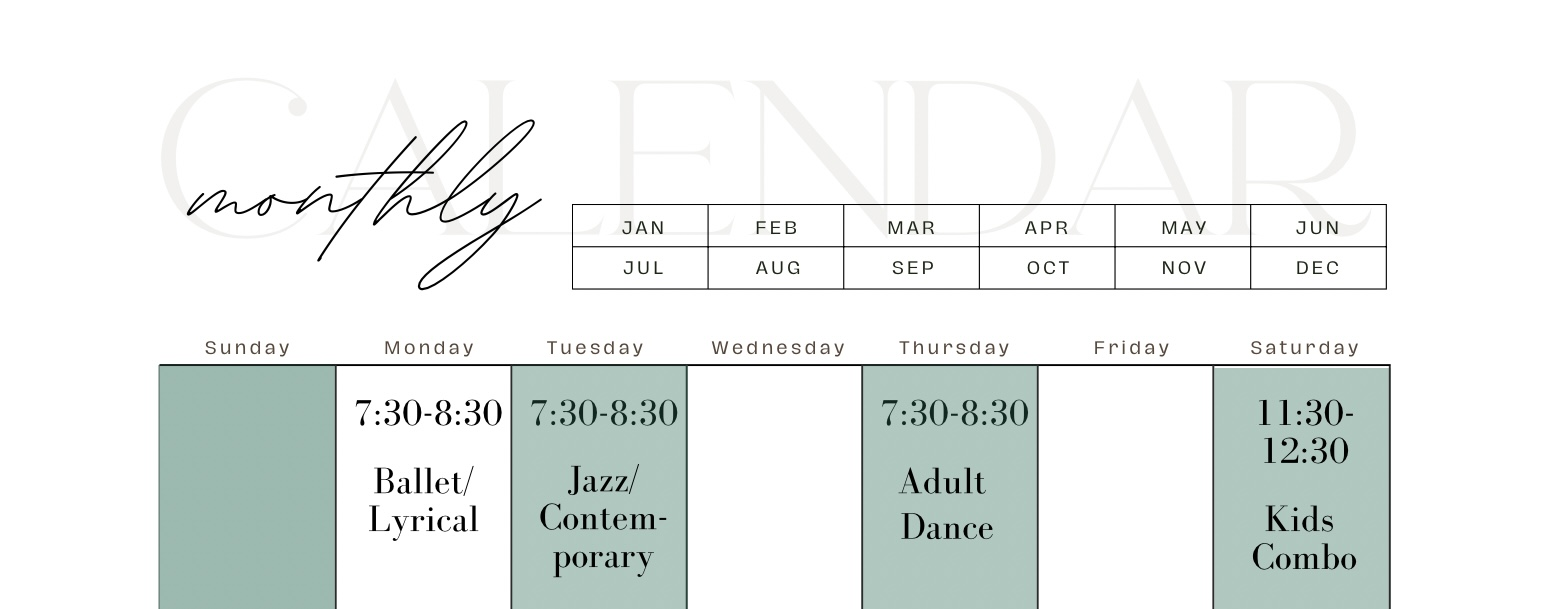
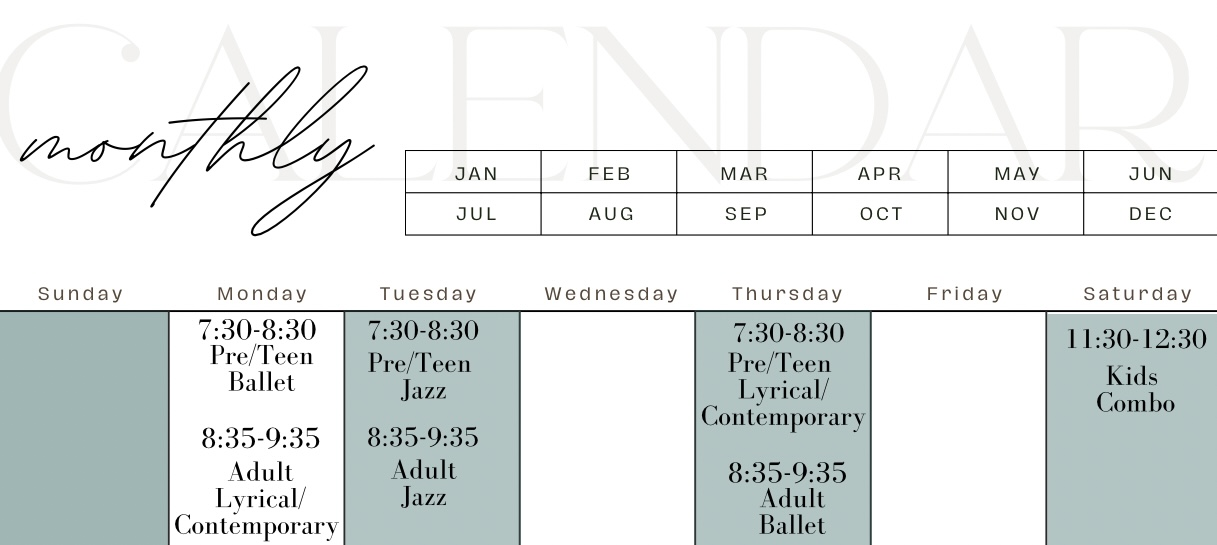
Change home page to reflect only 3 year olds or older allowed in classes. Change adult image and description to Lyrical/Contemporary. Update contact form to show preferred contact method & have more inviting messages. Update wording & description of classes. Update images. Update class calendar.

diff --git a/src/pages/classes.jsx b/src/pages/classes.jsx
@@ -4,6 +4,7 @@ import BalletHomeImg from '../images/home/balletHomeImg.JPEG';
 import JazzHomeImg from '../images/home/jazzHomeImg.JPEG';
 import KidsHomeImg from '../images/home/kidsHomeImg.JPEG';
 import AdultsHomeImg from '../images/home/adultsHomeImg.jpg';
+import LyricalHomeImg from '../images/home/lyricalHomeImg.png'
 import ClassCard from '../components/ClassCard';
 import {Link} from 'react-router-dom';
 
@@ -19,23 +20,24 @@ function Classes() {
       </p>
       <ClassCard 
         image={BalletHomeImg}
-        heading='Ballet/Lyrical'
+        heading='Ballet'
         age='7+'
         price='$65 per month'
-        time='Monday 7:30 - 8:30pm'
-        content="Ballet is a core foundation for other dance styles. Here at 
-                Treasured Dance Studio we will use several ballet terms and guidelines 
-                to help our students gain the knowledge they need to succeed in dance. 
-                The flow of the class is such: Start at the barre, add in strenghtening, 
-                center work, and finally a dance implementing what was learned in class 
-                that day."
+        firstTime='Pre/Teens - Mon 7:30 - 8:30pm'
+        secondTime='Adults - Thurs 8:35 - 9:35pm'
+        content="Ballet is the core foundation for other dance styles. Here at Treasured
+                Dance Studio we will use several ballet terms and guidelines to help our
+                students gain the knowledge they need to succeed in dance. The flow of the 
+                class is such: Start at the barre, add in strengthening and center work, 
+                small jumps and little jumps."
       />
       <ClassCard 
         image={JazzHomeImg}
-        heading='Jazz/Contemporary'
+        heading='Jazz'
         age='7+'
         price='$65 per month'
-        time='Tuesday 7:30 - 8:30pm'
+        firstTime='Pre/Teens - Tues 7:30 - 8:30pm'
+        secondTime='Adults - Tues 8:35 - 9:35pm'
         content="Jazz is all about energy, variety, and strength. We
                 pair contemporary with jazz so dancers can learn 
                 necessary variety through floor work, standing, isolation,
@@ -47,25 +49,27 @@ function Classes() {
       <ClassCard 
         image={KidsHomeImg}
         heading='Kids Combo'
-        age='2-6'
-        price='$45 or 55 per month (2-3 or 4-6)'
-        time='Saturday 11:30am - 12:30pm'
+        age='3-6'
+        price='$45 or 55 per month (3 or 4-6)'
+        firstTime='Saturday 11:30am - 12:30pm'
         content="Kids combo! These classes are so fun for kids ranging in ages 
-                from 2-6. The combo class includes a mixture of ballet and 
+                from 3-6. The combo class includes a mixture of ballet and 
                 acrobatic arts. In these classes students will learn body movement, 
                 pathways, rhythm, and more in a safe and fun learning environment."
       />
       <ClassCard
-        image={AdultsHomeImg}
-        heading='Adult Dance'
-        age='18+'
+        image={LyricalHomeImg}
+        heading='Lyrical/Contemporary'
+        age='7+'
         price='$65 per month'
-        time='Thursday 7:30 - 8:30pm'
-        content="Adult dance is for those 18+ who want to keep dancing to their hearts
-                content. We will study genres like ballet, jazz, contemporary, and lyrical. 
-                It is our philosophy that dance is for all ages. Each class will start
-                with a body warm up and exercise, move into an across the floor section,
-                and finish with a dance."
+        firstTime='Pre/Teens - Thurs 7:30 - 8:30pm'
+        secondTime='Adults - Mon 8:35 - 9:35pm'
+        content="This is an expressive dance class where we take the smoothness of ballet
+                mixed with the sharpness of jazz. This class will dive into emotions and 
+                creating with our body. Due to the class taking a mixture of both ballet 
+                and jazz, we recommend students in this class also be in either ballet or jazz.
+                 The structure of this class is such: full-body warm up, strengthening, 
+                 improv, center and floor work, and a dance."
       />
       <div className='class-bottom-div'>
         <h2>Ready to get started?</h2>

diff --git a/src/pages/home.jsx b/src/pages/home.jsx
@@ -10,6 +10,7 @@ import JazzHomeImg from '../images/home/jazzHomeImg.JPEG';
 import KidsHomeImg from '../images/home/kidsHomeImg.JPEG';
 import AdultsHomeImg from '../images/home/adultsHomeImg.jpg';
 import LocationImg from '../images/home/locationMap.png';
+import LyricalHomeImg from '../images/home/lyricalHomeImg.png';
 /* AVIF Images */
 import StudioFullShot256wAVIF from '../images/home/studioFullShot_256w_AVIF.avif';
 import StudioFullShot840wAVIF from '../images/home/studioFullShot_840w_AVIF.avif';
@@ -23,6 +24,7 @@ import BalletHomeImgAVIF from '../images/home/balletHomeImg.avif';
 import JazzHomeImgAVIF from '../images/home/jazzHomeImg.avif';
 import KidsHomeImgAVIF from '../images/home/kidsHomeImg.avif';
 import AdultsHomeImgAVIF from '../images/home/adultsHomeImg.avif';
+//import LyricalHomeImgAVIF from '../images/home/lyricalHomeImg.avif;'
 import LocationImg256wAVIF from '../images/home/locationMap_256w.avif';
 import LocationImg890wAVIF from '../images/home/locationMap_890w.avif';
 import LocationImg1235wAVIF from '../images/home/locationMap_1235w.avif';
@@ -50,6 +52,7 @@ import BalletHomeImgWEBP from '../images/home/balletHomeImg.webp';
 import JazzHomeImgWEBP from '../images/home/jazzHomeImg.webp';
 import KidsHomeImgWEBP from '../images/home/kidsHomeImg.webp';
 import AdultsHomeImgWEBP from '../images/home/adultsHomeImg.webp';
+import LyricalHomeImgWEBP from '../images/home/lyricalHomeImg.webp';
 
 function Home() {
   return (
@@ -57,7 +60,7 @@ function Home() {
       <h1 className='home-welcome-text'>Welcome to Treasured Dance Studio!</h1>
       <p className='home-welcome-content'>
         A premier dance studio located in Meridian, Idaho offering dance classes for 
-        adults and kids ages 2+.
+        adults and kids ages 3+.
       </p>
       <div className='home-studio-img-div'>
         <ResponsiveImage
@@ -100,7 +103,7 @@ function Home() {
       <div className='home-class-container'>
         <div className='home-class-subcontainer'>
           <HomeClassCard 
-            name='Ballet/Lyrical'
+            name='Ballet'
             image={BalletHomeImg}
             alt='Group of ballet dancers posing in black leotards'
             avifSrcSet={`${BalletHomeImgAVIF} 540w`}
@@ -108,7 +111,7 @@ function Home() {
             sizes="540px"
           />
           <HomeClassCard 
-            name='Jazz/Contemporary'
+            name='Jazz'
             image={JazzHomeImg}
             alt='Group of 4 pairs of feet posing in contemporary way'
             avifSrcSet={`${JazzHomeImgAVIF} 540w`}
@@ -126,11 +129,11 @@ function Home() {
             sizes="540px"
           />
           <HomeClassCard
-            name='Adult Dance'
-            image={AdultsHomeImg}
-            alt='Adult dance class'
-            avifSrcSet={`${AdultsHomeImgAVIF} 540w`}
-            webpSrcSet={`${AdultsHomeImgWEBP} 540w`}
+            name='Lyrical/Contemporary'
+            image={LyricalHomeImg}
+            alt='Lyrical/Contemporary class'
+            //avifSrcSet={`${AdultsHomeImgAVIF} 540w`}
+            webpSrcSet={`${LyricalHomeImgWEBP} 540w`}
             sizes="540px"
           />
         </div>

diff --git a/src/pages/get-started.jsx b/src/pages/get-started.jsx
@@ -5,16 +5,17 @@ import '../styles.css';
 function GetStarted() {
   return (
     <div className='get-started-outer'>
-      <h1>Get Started</h1>
+      {/* <h1>Get Started</h1> */}
+      <h1>Are you ready to get your body moving and creativity flowing?</h1>
       <p>
-        To schedule a <strong>FREE</strong> class, call us at  
-         (208) 617-4118 or fill out the
-        form below and we will give you a call!
+        Schedule a <strong>FREE</strong> week long trial to see which class
+        or classes are best for you! Call/text (we love text) us at (208) 617-4118
+        or fill in the info below and we will give you a call!
       </p>
       <Contact />
       <div className='get-started-info-div'>
         <h2>What should you bring to class?</h2>
-        <h3>Ballet/Lyrical</h3>
+        <h3>Ballet</h3>
         <ul>
           <li>Leotard of any color</li>
           <li>Tights</li>
@@ -24,11 +25,11 @@ function GetStarted() {
           <li>Hair up and out of face</li>
           <li>Water bottle</li>
         </ul>
-        <h3>Jazz/Contemporary</h3>
+        <h3>Jazz/Lyrical/Contemporary</h3>
         <ul>
           <li>Leggings</li>
           <li>Shirt or tank that you can move in</li>
-          <li>Jazz shoes</li>
+          <li>Jazz shoes or ballet slippers</li>
           <li>Hair up and out of face</li>
           <li>Water bottle</li>
         </ul>
@@ -38,13 +39,6 @@ function GetStarted() {
           <li>Tights are optional with a leotard</li>
           <li>Ballet slippers</li>
           <li>Water bottle with name on it</li>
-          <li>Hair up and out of face</li>
-        </ul>
-        <h3>Adult Dance</h3>
-        <ul>
-          <li>Clothes that you can move and feel comfortable in</li>
-          <li>Jazz shoes or ballet slippers</li>
-          <li>Water bottle</li>
           <li>Hair up and out of face</li>
         </ul>
       <p>

diff --git a/src/components/Contact.jsx b/src/components/Contact.jsx
@@ -8,7 +8,8 @@ function Contact() {
     user_first_name: '',
     user_last_name: '',
     user_email: '',
-    user_phone: ''
+    user_phone: '',
+    preferred_contact_method: ''
   });
 
   const sendEmail = (e) => {
@@ -19,6 +20,7 @@ function Contact() {
       !inputValue.user_last_name ||
       !inputValue.user_email ||
       !inputValue.user_phone ||
+      !inputValue.preferred_contact_method ||
       inputValue.user_phone.length !== 10
     ) {
       window.alert('Please fill in all required fields and provide a 10 digit phone number.');
@@ -40,7 +42,7 @@ function Contact() {
             user_email: '',
             user_phone: ''
           })
-          window.alert("Message sent successfully!");
+          window.alert("WOO! You're one step closer! We will be contacting you shortly to get this trial set up. Talk soon!");
       }, (error) => {
           console.log(error.text);
       });
@@ -83,6 +85,14 @@ function Contact() {
           value={inputValue.user_phone}
           onChange={handleChange}
         />
+        <label className='get-started-required-field'>Preferred Method of Contact</label>
+        <input 
+          type="text" 
+          name="preferred_contact_method"
+          placeholder='phone, email, text'
+          value={inputValue.preferred_contact_method}
+          onChange={handleChange}
+        />
         <label>Message</label>
         <textarea 
           name="message"
@@ -90,7 +100,7 @@ function Contact() {
         <input 
           className='get-started-submit' 
           type="submit" 
-          value="Send Message" 
+          value="Get your free trial today!" 
         />
       </form>
     </div>

diff --git a/src/components/ClassCard.jsx b/src/components/ClassCard.jsx
@@ -10,7 +10,8 @@ function ClassCard(props) {
         <h2>{props.heading}</h2>
         <h3>Ages {props.age}</h3>
         <h3>{props.price}</h3>
-        <h3>{props.time}</h3>
+        <h3>{props.firstTime}</h3>
+        <h3>{props.secondTime}</h3>
         <p>{props.content}</p>
       </div>    
     </div>
